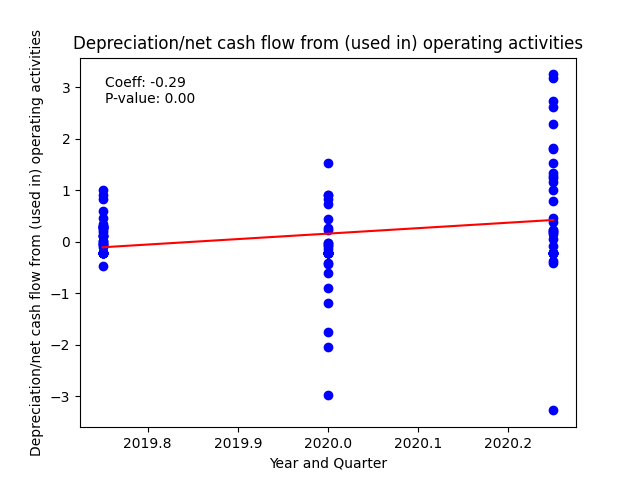
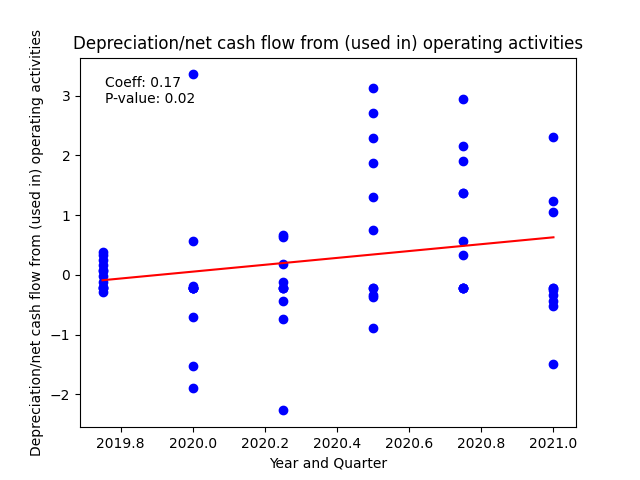
fixed Missing Indicator

diff --git a/revo/modules/task1_b.py b/revo/modules/task1_b.py
@@ -37,6 +37,8 @@ def task1_b(start_year:int,start_quarter:int,
 
         # Fit a multiple linear regression model to each financial col
         for financial_col in Y_cols: 
+            if financial_col.startswith("MI_"):
+                continue  # Skip to the next iteration if the col is a missing indicator
             # Add a constant term and combine the 3 x variables into one array
             X = sm.add_constant(list(zip(sector_df['Year'], sector_df['sin_quarter'], sector_df['cos_quarter'])))  
             model = sm.OLS(sector_df[financial_col], X).fit()
@@ -80,6 +82,9 @@ def task1_b(start_year:int,start_quarter:int,
     # Produce plots
     for financial_col,sector in zip(all_sectors_df['Statistical Significant Financial Indicator'],
                                     all_sectors_df['description_sector']):
+        
+        if financial_col.startswith("MI_"):
+            continue  # Skip to the next iteration if the col is a missing indicator
         
         filtered_df=df[df['description_sector']==sector].copy()
         filtered_df=filtered_df[[financial_col,f'Predicted {financial_col}',

diff --git a/revo/modules/task1_a.py b/revo/modules/task1_a.py
@@ -29,6 +29,8 @@ def task1_a(start_year:int,start_quarter:int,
 
     # Fit a multiple linear regression model to each financial col
     for financial_col in Y_cols: 
+        if financial_col.startswith("MI_"):
+            continue  # Skip to the next iteration if the col is a missing indicator
         # Add a constant term and combine the 3 x variables into one array
         X = sm.add_constant(list(zip(df['Year'], df['sin_quarter'], df['cos_quarter'])))  
         model = sm.OLS(df[financial_col], X).fit()
